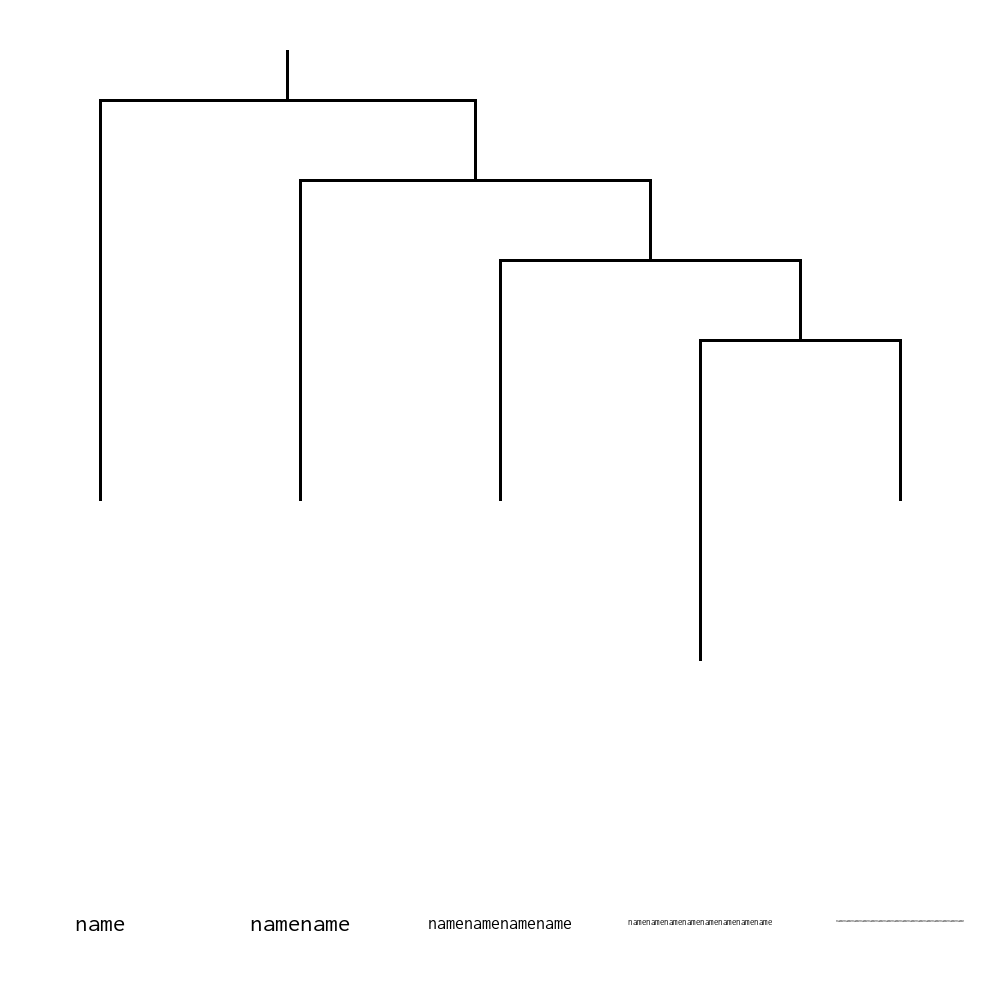
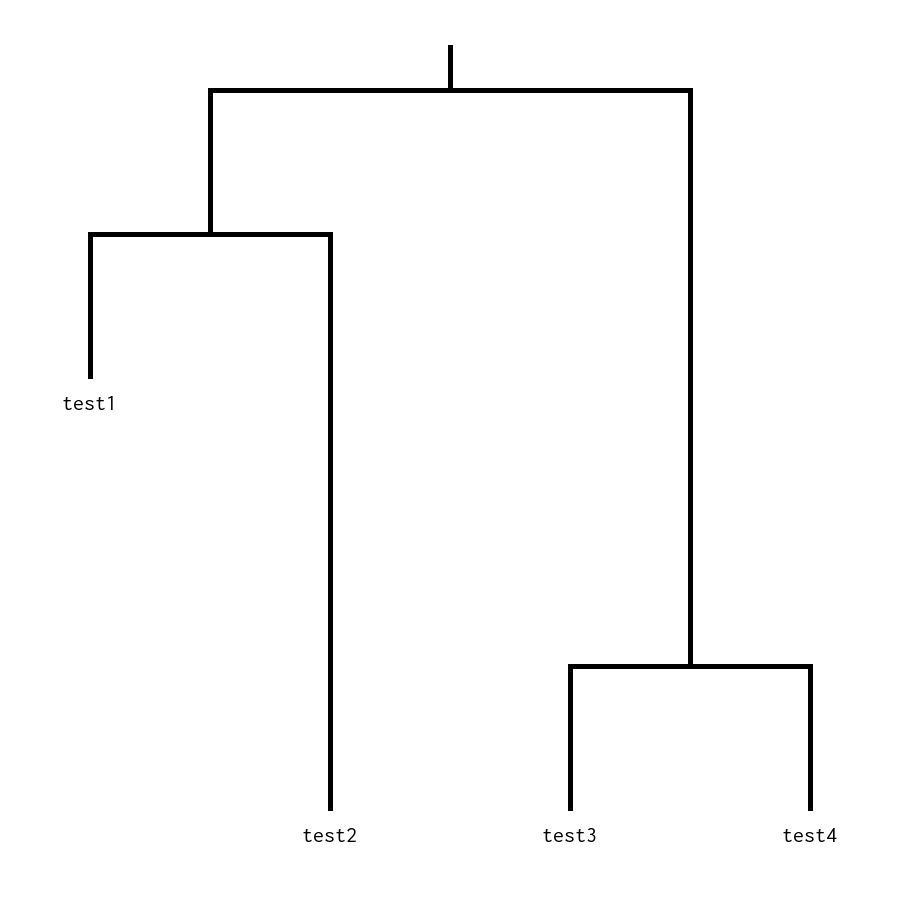
text height adjustment complete

diff --git a/cladogram_generator_PIL.py b/cladogram_generator_PIL.py
@@ -390,13 +390,15 @@ def write_leaves(leaf_list):
     global offset_y
     global canvas_height
     global scale_x
+    global scale_y
     global text_colour
 
-    # sets the height the text is written from
-    text_height = canvas_height - (0.8*offset_y)
     counter = 0
     for leaf in leaf_list:
+        # sets the height and position the text is written from
+        text_height = canvas_height - (0.8*offset_y) - (clade_height[leaf]*scale_y)
         text_position = clade_position[leaf]*scale_x + offset_x
+
         name = clade_name[leaf]
         is_end = False
         if counter == 0 or counter == (len(leaf_list)-1):
